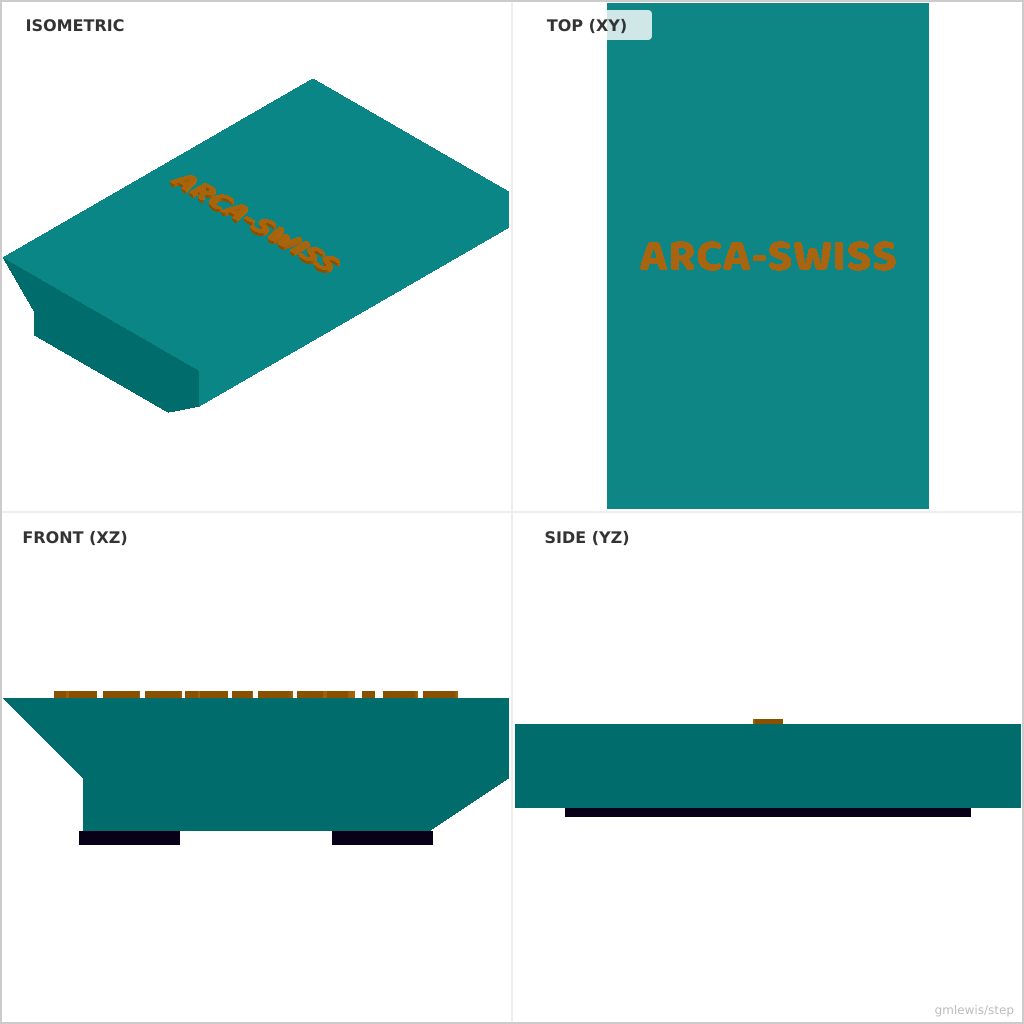
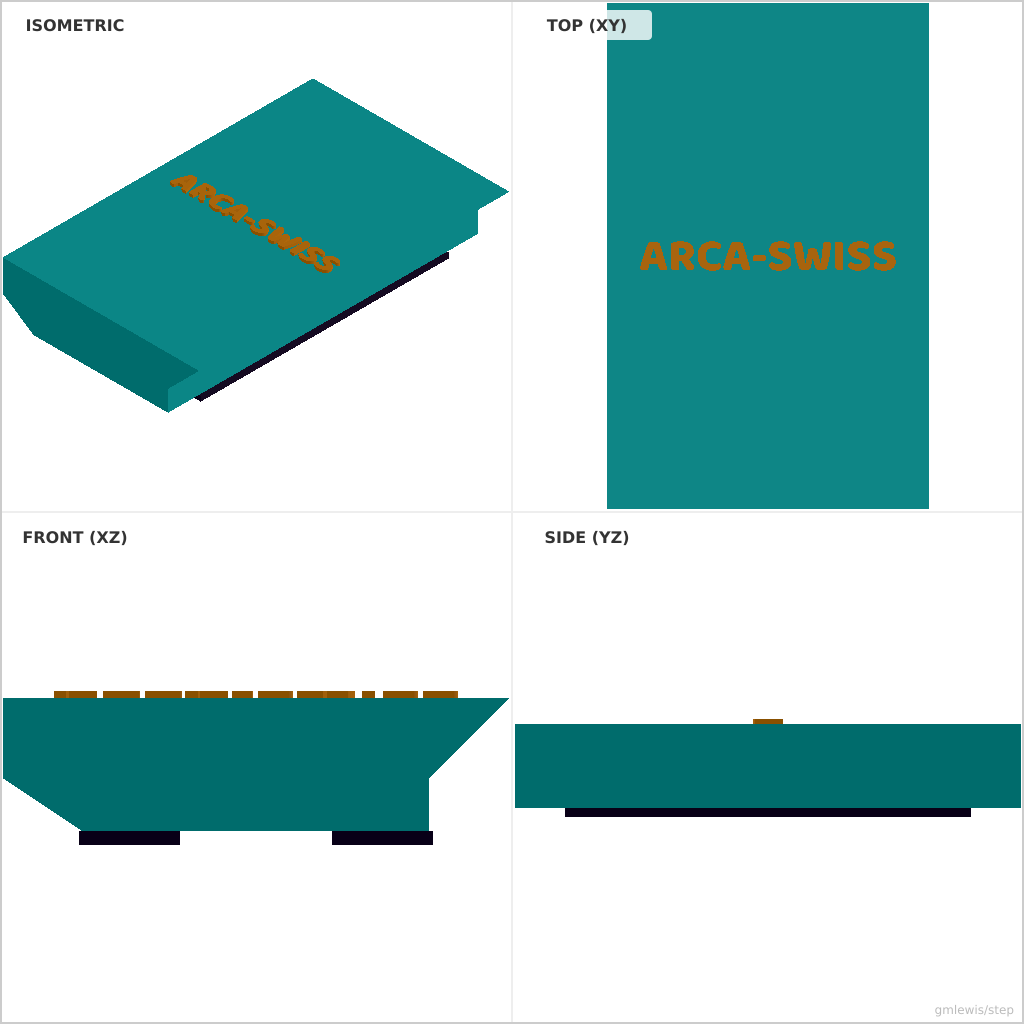
Add example 30

diff --git a/scripts/manage_examples.py b/scripts/manage_examples.py
@@ -38,7 +38,8 @@ SUITE = {
     "26": [["--armLength", "250"], ["--baseDiameter", "180", "--armLength", "400", "--armWidth", "50"]],
     "27": [["--length", "60"], ["--width", "42", "--height", "12"]],
     "28": [["--phoneThickness", "10"], ["--viewAngle", "30", "--width", "100"]],
-    "29": [["--width", "40", "--armLength", "80"], ["--hookHeight", "40", "--thickness", "8"]]
+    "29": [["--width", "40", "--armLength", "80"], ["--hookHeight", "40", "--thickness", "8"]],
+    "30": [["--length", "150", "--width", "50", "--height", "40"], ["--length", "300", "--width", "80", "--height", "60", "--thickness", "4"]]
 }
 
 # --- Utils ---

diff --git a/examples/30-desk-cable-tray/README.md b/examples/30-desk-cable-tray/README.md
@@ -1,23 +1,38 @@
 # 30 — Desk Cable Tray
 
-This folder contains a **working example** that generates a STEP model for: A cable tray with pattern-generated ribs and mounting options.
+This folder contains a **working example** that generates a STEP model for: A parametric under-desk cable management tray.
 
 The intent is that you can run the code here to emit a STEP file, open it in a CAD viewer, and/or import it into your slicer to 3D print and iterate.
 
 ## What this example demonstrates
-- arraying features from data
-- layout rules (spacing, margins)
-- family generation from a single config
-- mount geometry derived from standards
+- Complex J-profile construction with fillets
+- Coordinate system transformations (rotations/translations)
+- Assembly of multiple parts (tray, mounting holes)
+- Embossed text branding on a face
 
 ## Parameters to try
-- `rows`
-- `cols`
-- `cellSize`
-- `holeSpacing`
-- `mountThickness`
+- `--length`: Total length of the tray (default: 200.0)
+- `--width`: Width/depth of the tray (default: 60.0)
+- `--height`: Total height of the tray (default: 50.0)
+- `--thickness`: Material thickness (default: 3.0)
+- `--mountHoleSpacing`: Spacing between mounting holes (default: 150.0)
 
 ## Suggested extensions
-- generate multiple sizes in one run
-- add embossed labels for each pocket
-- add cable routing features
+- Add more mounting holes for longer trays
+- Add cable tie slots along the bottom
+- Add a back plate for easier mounting
+
+---
+
+### Variant 1
+
+Command line: `./run-example.sh 30 --length 150 --width 50 --height 40`
+
+![](preview-1.png)
+
+### Variant 2
+
+Command line: `./run-example.sh 30 --length 300 --width 80 --height 60 --thickness 4`
+
+![](preview-2.png)
+
